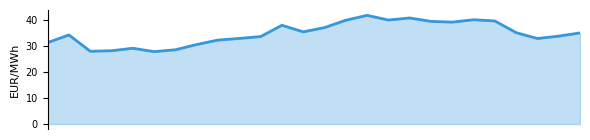
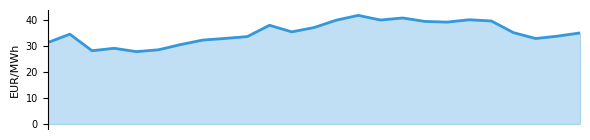
Update Gasspeicher-Report 2026-02-06 07:46

Changed region(s): [[0.0915, 0.0857, 0.9458, 0.4]]

diff --git a/index.html b/index.html
@@ -3,7 +3,7 @@
 <head>
     <meta charset="UTF-8">
     <meta name="viewport" content="width=device-width, initial-scale=1.0">
-    <title>Energienotfall.de - Gasspeicher 29.1% | 05.02.2026</title>
+    <title>Energienotfall.de - Gasspeicher 29.1% | 06.02.2026</title>
 
     <!-- SEO Meta Tags -->
     <meta name="description" content="Energienotfall.de: Erhöhte Aufmerksamkeit. Speicherstand unter Beobachtung. Füllstand 29.1%, Trend -0.72%/Tag. Prognose-Tiefpunkt: 6.3%. Privates Projekt · Keine offizielle Behördenseite">
@@ -14,14 +14,14 @@
     <!-- Open Graph (Facebook, LinkedIn) -->
     <meta property="og:type" content="website">
     <meta property="og:url" content="https://www.energienotfall.de/">
-    <meta property="og:title" content="Energienotfall.de - Gasspeicher 29.1% | 05.02.2026">
+    <meta property="og:title" content="Energienotfall.de - Gasspeicher 29.1% | 06.02.2026">
     <meta property="og:description" content="Füllstand 29.1%, Trend -0.72%/Tag. Prognose-Tiefpunkt: 6.3% am 05.04.2026.">
     <meta property="og:locale" content="de_DE">
     <meta property="og:site_name" content="Energienotfall.de">
 
     <!-- Twitter Card -->
     <meta name="twitter:card" content="summary_large_image">
-    <meta name="twitter:title" content="Energienotfall.de - Gasspeicher 29.1% | 05.02.2026">
+    <meta name="twitter:title" content="Energienotfall.de - Gasspeicher 29.1% | 06.02.2026">
     <meta name="twitter:description" content="Gasspeicher 29.1%, Trend -0.72%/Tag. Tiefpunkt 6.3%.">
 
     <!-- JSON-LD Structured Data -->
@@ -538,11 +538,11 @@
                         <div class="label">Gas (EUR/MWh)</div>
                     </div>
                     <div class="spark-item">
-                        <div class="value">117.3</div>
+                        <div class="value">114.4</div>
                         <div class="label">Strom (EUR/MWh)</div>
                     </div>
                     <div class="spark-item">
-                        <div class="value spark-profitable">+56.0</div>
+                        <div class="value spark-profitable">+53.0</div>
                         <div class="label">Spread (EUR/MWh)</div>
                     </div>
                 </div>
@@ -558,7 +558,7 @@
         <!-- Forecast Chart -->
         <div class="chart-container">
             <h2 style="margin-bottom: 1rem;">📈 Vorhersage-Diagramm</h2>
-            <img src="Gasspeicher_Vorhersage_2026-02-05.png" alt="Gasspeicher Vorhersage bis 05.04.2026" />
+            <img src="Gasspeicher_Vorhersage_2026-02-06.png" alt="Gasspeicher Vorhersage bis 05.04.2026" />
             <div style="margin-top: 0.75rem; font-size: 0.8rem; color: #666;">
                 Vorhersage: 60 Tage | Tiefpunkt: 6.3% am 05.04.2026
             </div>
